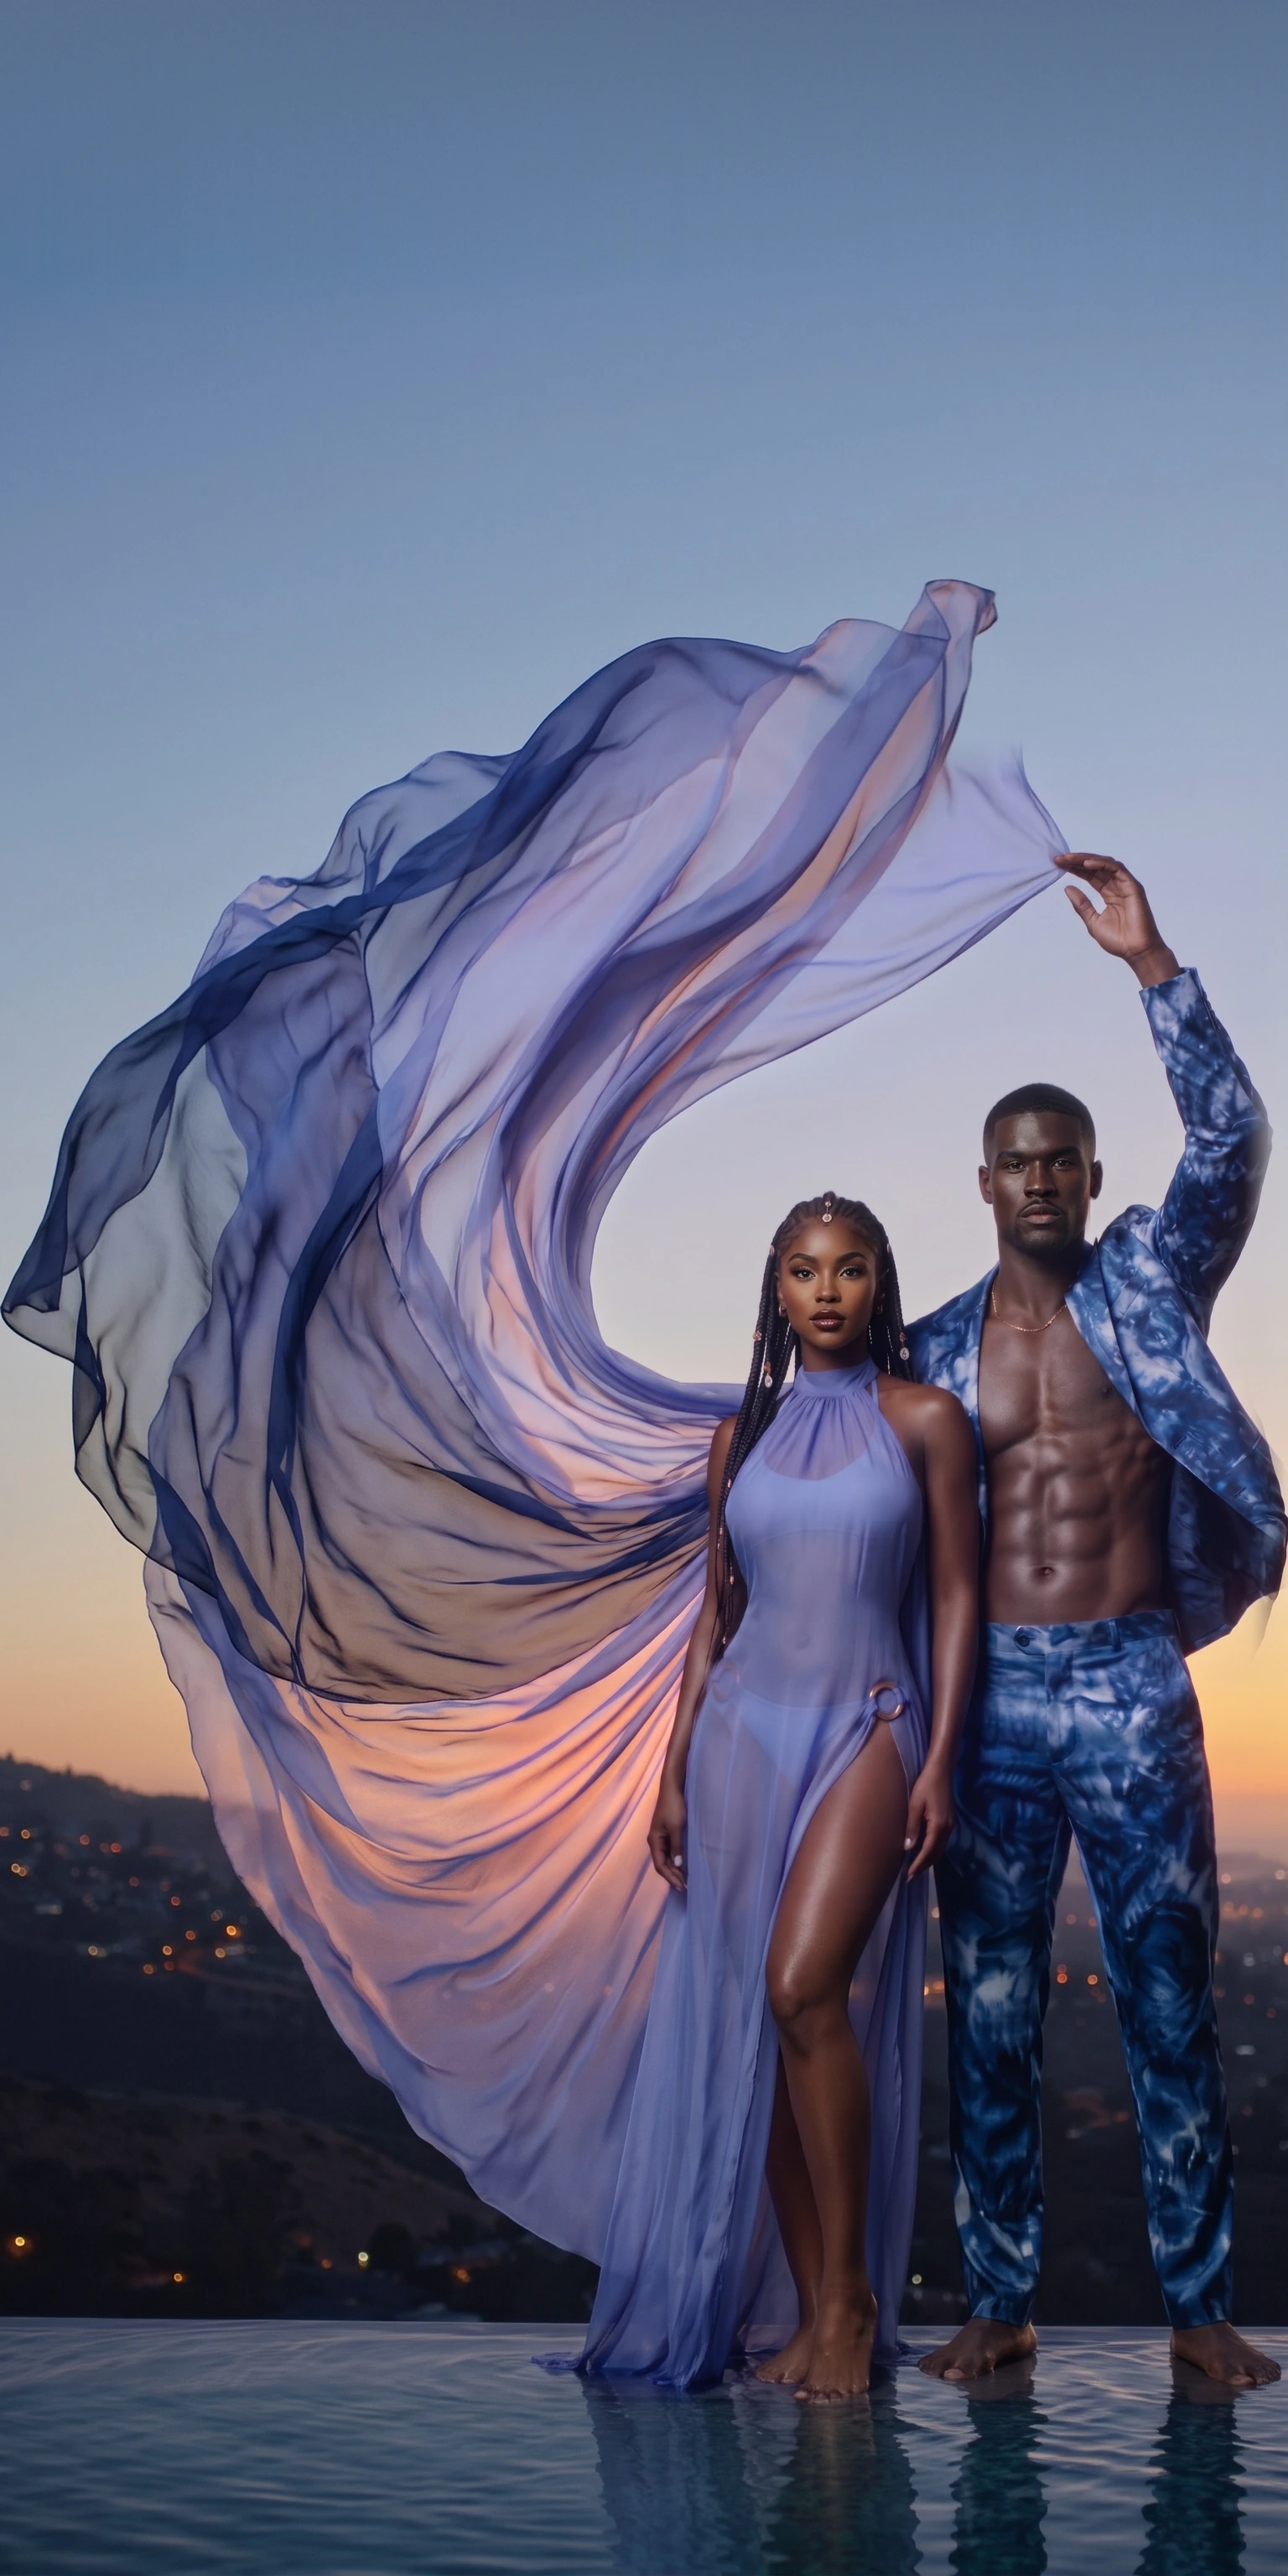
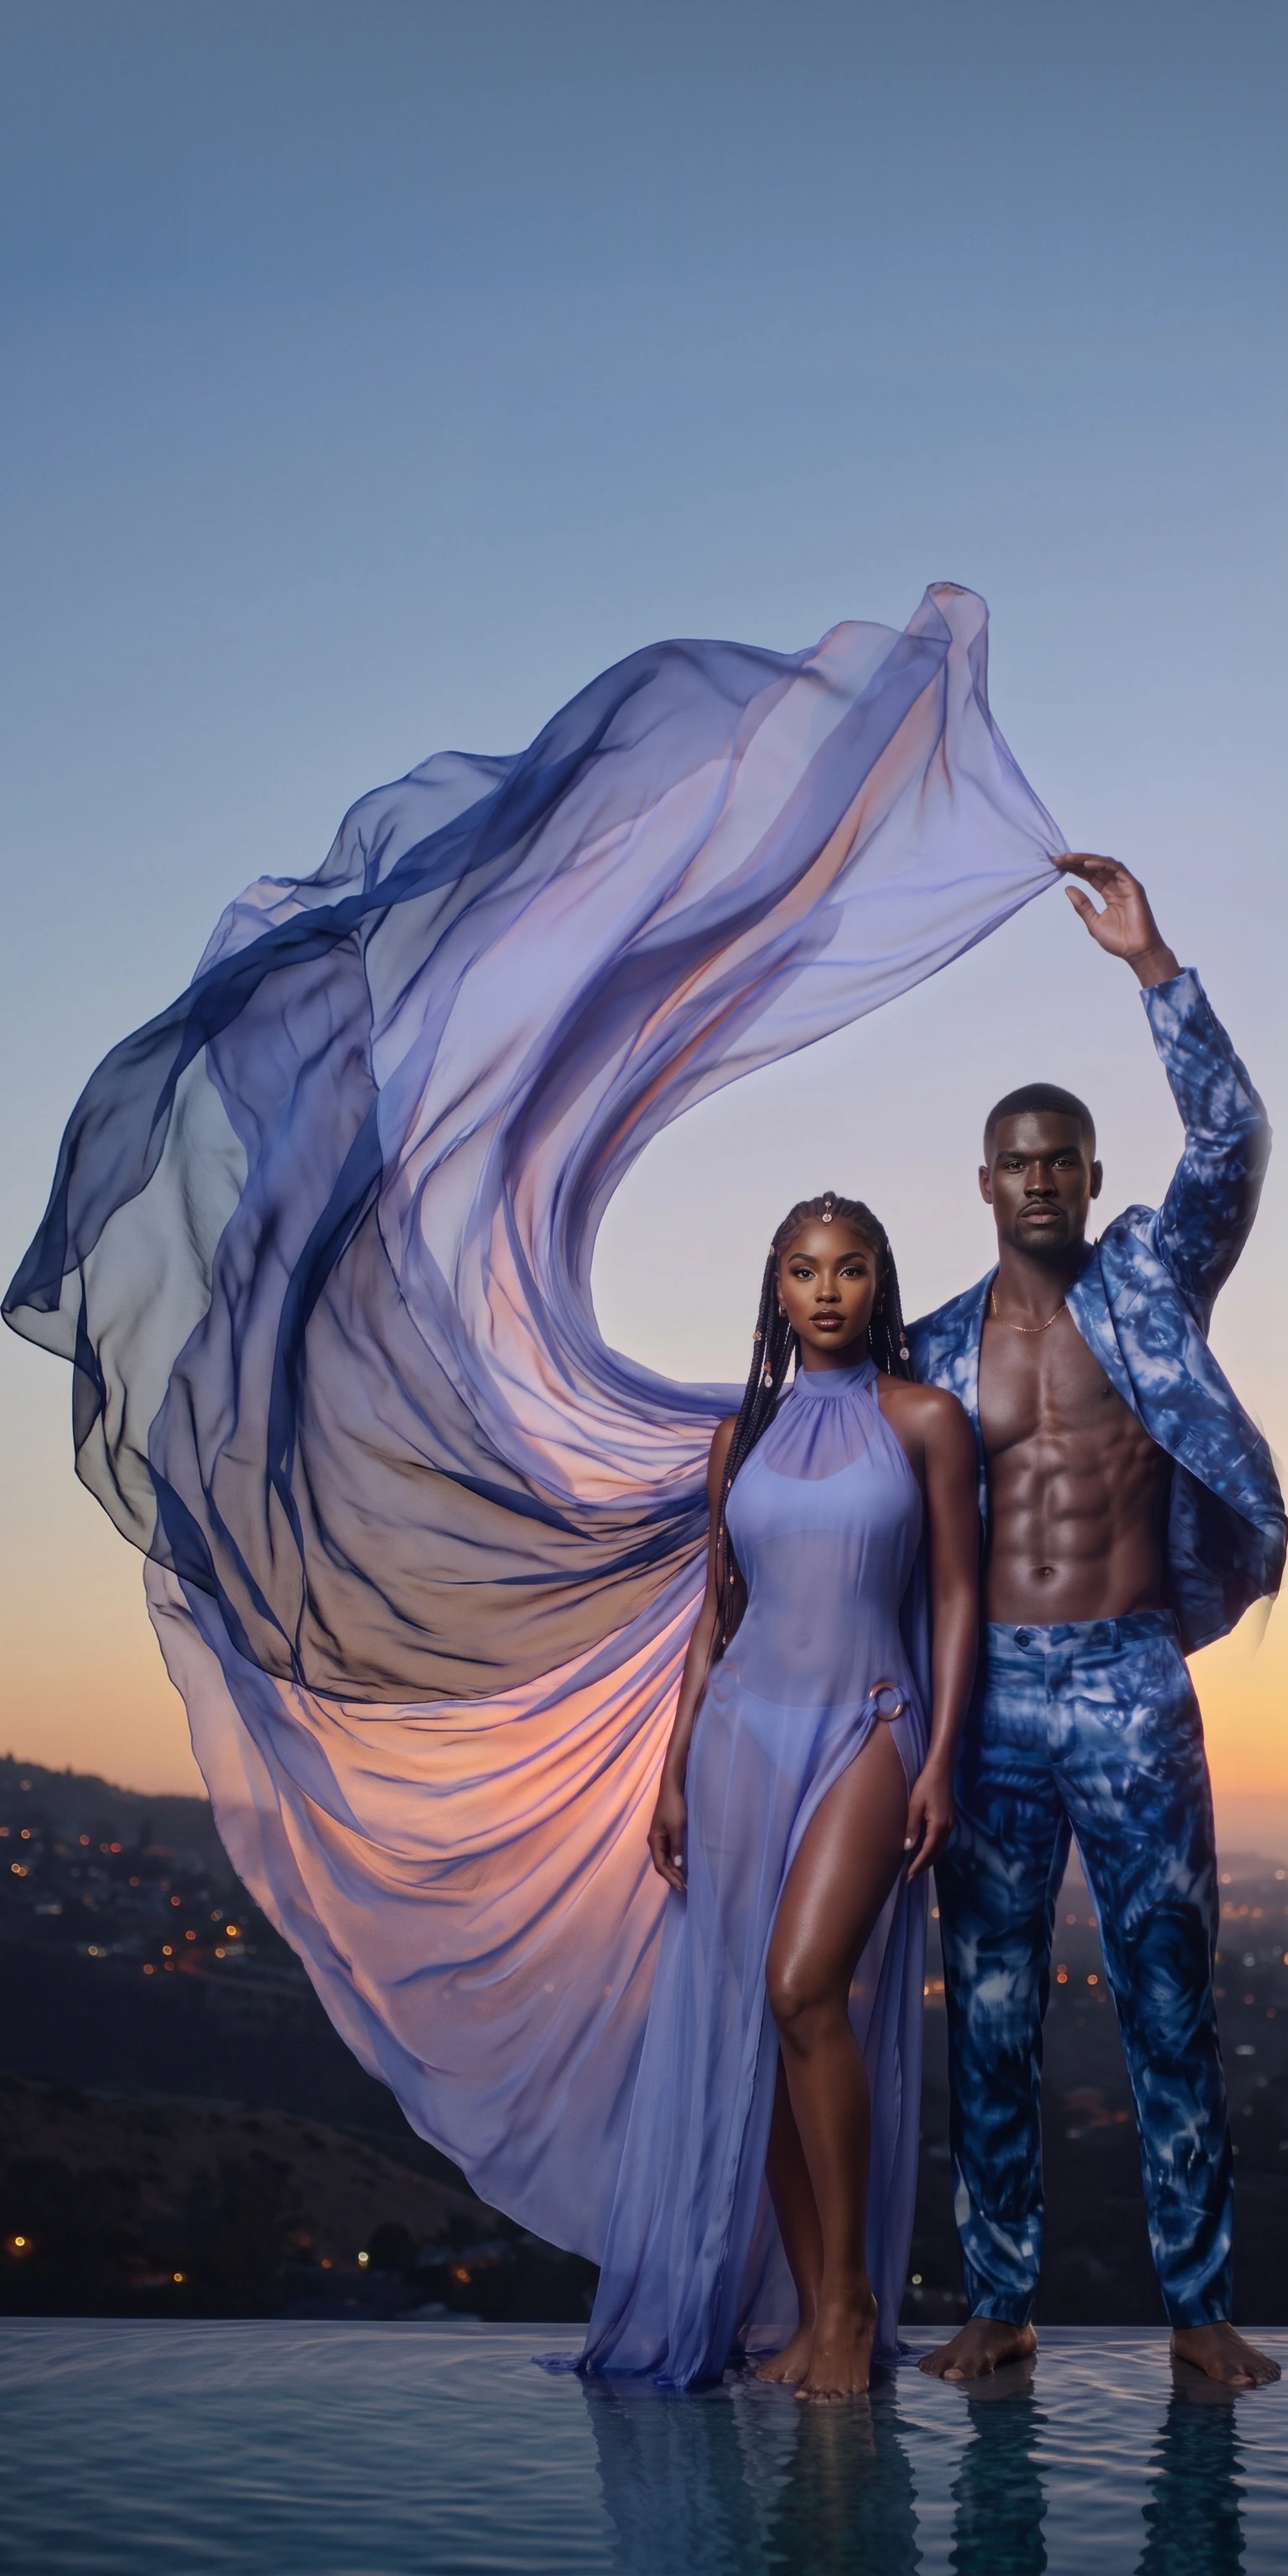
Sabo Silk phone: silk is one continuous sheet up to his hand (no seam), the fabric pinched between thumb and fingers with natural folds

Changed region(s): [[0.5625, 0.2188, 0.7812, 0.375], [0.375, 0.3438, 0.5625, 0.4688], [0.4062, 0.25, 0.5, 0.3438]]

diff --git a/index.html b/index.html
@@ -474,7 +474,7 @@ var BL = [
    // Sources: Downloads sabo-silk-scene-desktop.jpg and sabo-silk-scene-phone.jpg (Gemini, free). The tall picture has 225px of
    // sky added on top; head: the man's head top (TJ, 22 Nov: his head under the bottle, not his hand, and the two of them larger: zoom). headW: the man's head top in the wide picture.
    layers:{wide:{w:3615,h:2067,headW:0.9,sky:"img/sabo-silk-sky.webp?v=wide2",fg:"img/sabo-silk-fg.webp?v=cut1",fgd:0.15},
-           tall:{w:1536,h:3072,head:0.421,zoom:1.25,keepR:0.99,sky:"img/sabo-silk-sky-tall.webp?v=pose2",fg:"img/empty-fg.webp"}}},
+           tall:{w:1536,h:3072,head:0.421,zoom:1.25,keepR:0.99,sky:"img/sabo-silk-sky-tall.webp?v=pose3",fg:"img/empty-fg.webp"}}},
 ];
 var TIERS=["top","heart","base"], TL={top:"Top",heart:"Heart",base:"Base"};
 var CREAM="#F2EACF";
